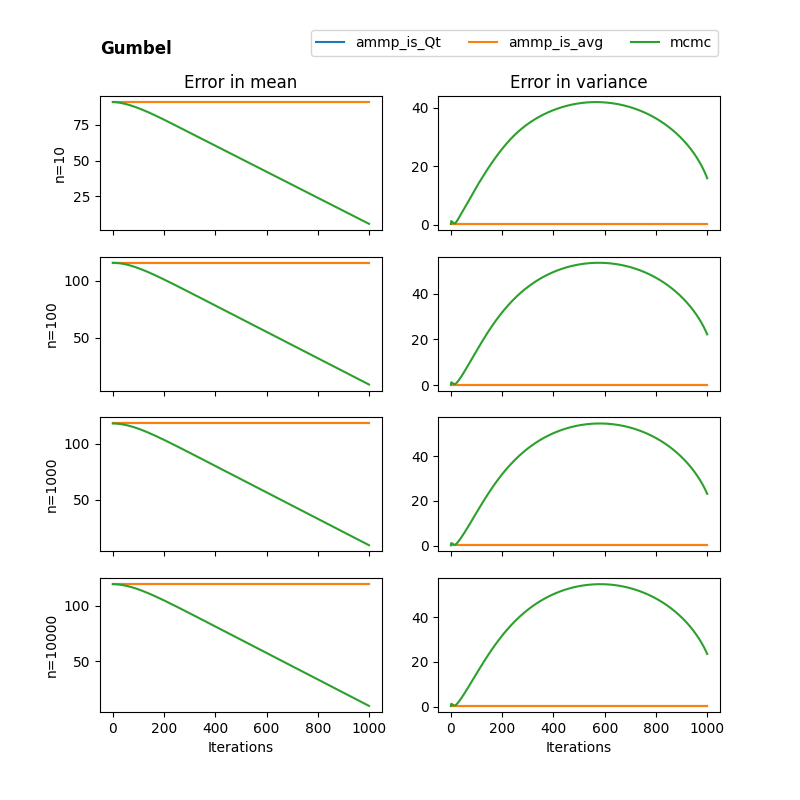
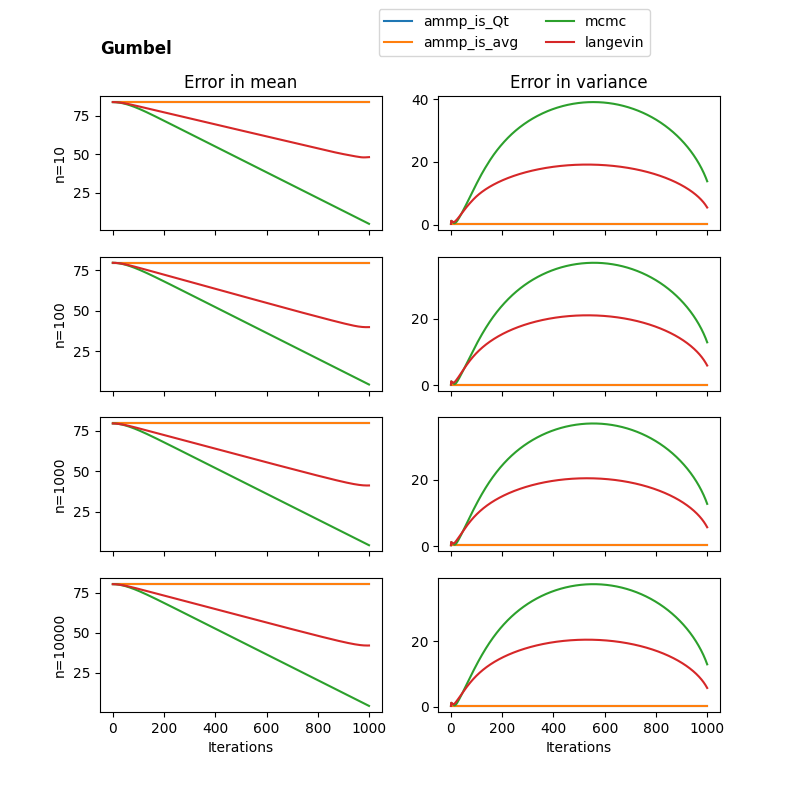
Added langevin monte carlo

diff --git a/examples/ammpis_numpy/experiments.py b/examples/ammpis_numpy/experiments.py
@@ -12,7 +12,7 @@ t.manual_seed(0)
 t.cuda.manual_seed(0)
 
 if __name__ == "__main__":
-    num_runs = 3
+    num_runs = 5
 
     num_iters = 1000 # mcmc seems to require about 1000 iterations to converge
     
@@ -22,10 +22,12 @@ if __name__ == "__main__":
         
     errors = {"ammp_is_post_q":   t.zeros(num_runs, len(posteriors), len(num_latents), num_iters+1, 2),
               "ammp_is_post_avg": t.zeros(num_runs, len(posteriors), len(num_latents), num_iters+1, 2),
-              "mcmc_post":        t.zeros(num_runs, len(posteriors), len(num_latents), num_iters+1, 2)}
+              "mcmc_post":        t.zeros(num_runs, len(posteriors), len(num_latents), num_iters+1, 2),
+              "lang_post":        t.zeros(num_runs, len(posteriors), len(num_latents), num_iters+1, 2)}
 
     times = {"ammp_is": t.zeros(num_runs, len(posteriors), len(num_latents), num_iters+1),
-             "mcmc":    t.zeros(num_runs, len(posteriors), len(num_latents), num_iters+1)}
+             "mcmc":    t.zeros(num_runs, len(posteriors), len(num_latents), num_iters+1),
+             "lang":    t.zeros(num_runs, len(posteriors), len(num_latents), num_iters+1)}
     
     for run in range(num_runs):
         for post in posteriors:
@@ -35,8 +37,8 @@ if __name__ == "__main__":
                 init = t.tensor([0.0,1.0], dtype=t.float64).repeat((n,1))
 
                 # priors on posterior parameters
-                loc = Normal(0,150).sample((n,1)).float()
-                scale = Normal(0,0.01).sample((n,1)).exp().float()
+                loc = Normal(0,100).sample((n,1)).float()
+                scale = Normal(0,0.1).sample((n,1)).exp().float()
 
                 post_dist = posteriors[post](loc.squeeze(), scale.squeeze())
                 true_post = t.cat([post_dist.mean.unsqueeze(1), post_dist.stddev.unsqueeze(1)], dim=1)
@@ -50,23 +52,31 @@ if __name__ == "__main__":
                 m_mcmc, mcmc_acceptance_rate, mcmc_times = mcmc(num_iters, post_dist, init, 2.4*post_dist.stddev.unsqueeze(1), burn_in=0)#num_iters//10)
                 mcmc_post = [fit_approx_post(m) for m in m_mcmc]
 
+                # langevin (mala)
+                m_lang, lang_acceptance_rate, lang_times = am(num_iters, post_dist, init, 2.4*post_dist.stddev.unsqueeze(1), burn_in=0)#num_iters//10)
+                lang_post = [fit_approx_post(m) for m in m_lang]
 
                 # calculate errors
                 for i in range(num_iters+1):
                     errors["ammp_is_post_q"][run, list(posteriors.keys()).index(post), num_latents.index(n), i, :] = (true_post - ammp_is_post_q[i]).abs().mean(0)
                     errors["ammp_is_post_avg"][run, list(posteriors.keys()).index(post), num_latents.index(n), i, :] = (true_post - ammp_is_post_avg[i]).abs().mean(0)
                     errors["mcmc_post"][run, list(posteriors.keys()).index(post), num_latents.index(n), i, :] = (true_post - mcmc_post[i]).abs().mean(0)
+                    errors["lang_post"][run, list(posteriors.keys()).index(post), num_latents.index(n), i, :] = (true_post - lang_post[i]).abs().mean(0)
+
 
                 times["ammp_is"][run, list(posteriors.keys()).index(post), num_latents.index(n), :] = ammp_is_times
                 times["mcmc"][run, list(posteriors.keys()).index(post), num_latents.index(n), :] = mcmc_times
+                times["lang"][run, list(posteriors.keys()).index(post), num_latents.index(n), :] = lang_times
 
     # take mean over runs
     errors["ammp_is_post_q"] = errors["ammp_is_post_q"].mean(0)
     errors["ammp_is_post_avg"] = errors["ammp_is_post_avg"].mean(0)
     errors["mcmc_post"] = errors["mcmc_post"].mean(0)
+    errors["lang_post"] = errors["lang_post"].mean(0)
 
     times["ammp_is"] = times["ammp_is"].mean(0)
     times["mcmc"] = times["mcmc"].mean(0)
+    times["lang"] = times["lang"].mean(0)
 
     for x_axis in ["iterations", "time"]:
         for post in posteriors:
@@ -85,11 +95,13 @@ if __name__ == "__main__":
                 axs[i, 0].plot(ampp_is_xs, errors["ammp_is_post_q"][list(posteriors.keys()).index(post), i, :, 0].numpy(), label="ammp_is_Qt")
                 axs[i, 0].plot(ampp_is_xs, errors["ammp_is_post_avg"][list(posteriors.keys()).index(post), i, :, 0].numpy(), label="ammp_is_av")
                 axs[i, 0].plot(mcmc_xs, errors["mcmc_post"][list(posteriors.keys()).index(post), i, :, 0].numpy(), label="mcmc")
+                axs[i, 0].plot(mcmc_xs, errors["lang_post"][list(posteriors.keys()).index(post), i, :, 0].numpy(), label="lang")
                 # axs[i, 0].set_ylim([0, 1])
 
                 axs[i, 1].plot(ampp_is_xs, errors["ammp_is_post_q"][list(posteriors.keys()).index(post), i, :, 1].numpy(), label="ammp_is_Qt")
                 axs[i, 1].plot(ampp_is_xs, errors["ammp_is_post_avg"][list(posteriors.keys()).index(post), i, :, 1].numpy(), label="ammp_is_avg")
                 axs[i, 1].plot(mcmc_xs, errors["mcmc_post"][list(posteriors.keys()).index(post), i, :, 1].numpy(), label="mcmc")
+                axs[i, 1].plot(mcmc_xs, errors["lang_post"][list(posteriors.keys()).index(post), i, :, 1].numpy(), label="langevin")
                 # axs[i, 1].set_ylim([0, 1])
             
             axs[0, 0].set_title(f"Error in mean")
@@ -106,7 +118,7 @@ if __name__ == "__main__":
 
 
             # add horizontal legend along top of plot
-            axs[0,1].legend(loc='lower center', bbox_to_anchor=(0.27, 1.25), shadow=False, ncol=3)
+            axs[0,1].legend(loc='lower center', bbox_to_anchor=(0.27, 1.25), shadow=False, ncol=2)
 
             plt.savefig(f"figures/{post}{'_vs_time' if x_axis == 'time' else ''}.png")
             plt.close()

diff --git a/examples/ammpis_numpy/ammpis.py b/examples/ammpis_numpy/ammpis.py
@@ -164,9 +164,72 @@ def mcmc(T, post, init, proposal_scale, burn_in=100):
 
             times[i-burn_in+1] = time.time() - start_time
 
+    acceptance_rates = num_accepted / (T + burn_in)
+
+    return moments, acceptance_rates.mean().item(), times
+
+def am(T, post, init, proposal_scale, burn_in=100):
+    if type(proposal_scale) in (float, int):
+        proposal_scale = proposal_scale*t.ones(num_latents, 1)
+
+    N = init.shape[0]
+
+    x = sample(init, 1)
+    
+    # to store samples
+    samples = t.zeros((T + burn_in, N))
+    samples[0,:] = x
+
+    moments = [init]
+
+    num_accepted = t.zeros(N)
+
+    times = t.zeros(T+1)
+    start_time = time.time()
+
+    for i in range(T + burn_in):
+        # get grad of log p(x)
+        x.requires_grad_(True)
+        x.retain_grad()
+        logp_x = post.log_prob(x)
+        logp_x.sum().backward()
+        grad_logp_x = x.grad
+        x.requires_grad_(False)
+
+        # normal proposal
+        # breakpoint()
+        proposal_params = t.stack([(x + proposal_scale.t() * 0.5 * grad_logp_x).squeeze(), proposal_scale.squeeze(1)], dim=1)
+
+        y = sample(proposal_params, 1)
+
+        # get grad of log p(y)
+        y.requires_grad_(True)
+        y.retain_grad()
+        logp_y = post.log_prob(y)
+        logp_y.sum().backward()
+        grad_logp_y = y.grad
+        y.requires_grad_(False)
+
+        reverse_proposal_params = t.stack([(y + proposal_scale.t() * 0.5 * grad_logp_y).squeeze(), proposal_scale.squeeze(1)], dim=1)
+
+
+        alpha = t.exp(post.log_prob(y) - post.log_prob(x) + Normal(proposal_params[:,0], proposal_params[:,1]).log_prob(x) - Normal(reverse_proposal_params[:,0], reverse_proposal_params[:,1]).log_prob(y))
+        accepted = alpha > t.rand(N)
+        num_accepted += accepted.squeeze(0)
+
+        x = t.where(accepted, y, x)
+
+        samples[i,:] = x
+
+        if i == burn_in-1:
+            start_time = time.time()
+
+        if i >= burn_in:
+            Ex = t.mean(samples[burn_in:,:], dim=0)
+            Ex2 = t.mean(samples[burn_in:,:]**2, dim=0)
+            moments.append(t.stack([Ex, Ex2]).t())
 
             times[i-burn_in+1] = time.time() - start_time
-
 
     acceptance_rates = num_accepted / (T + burn_in)
 
